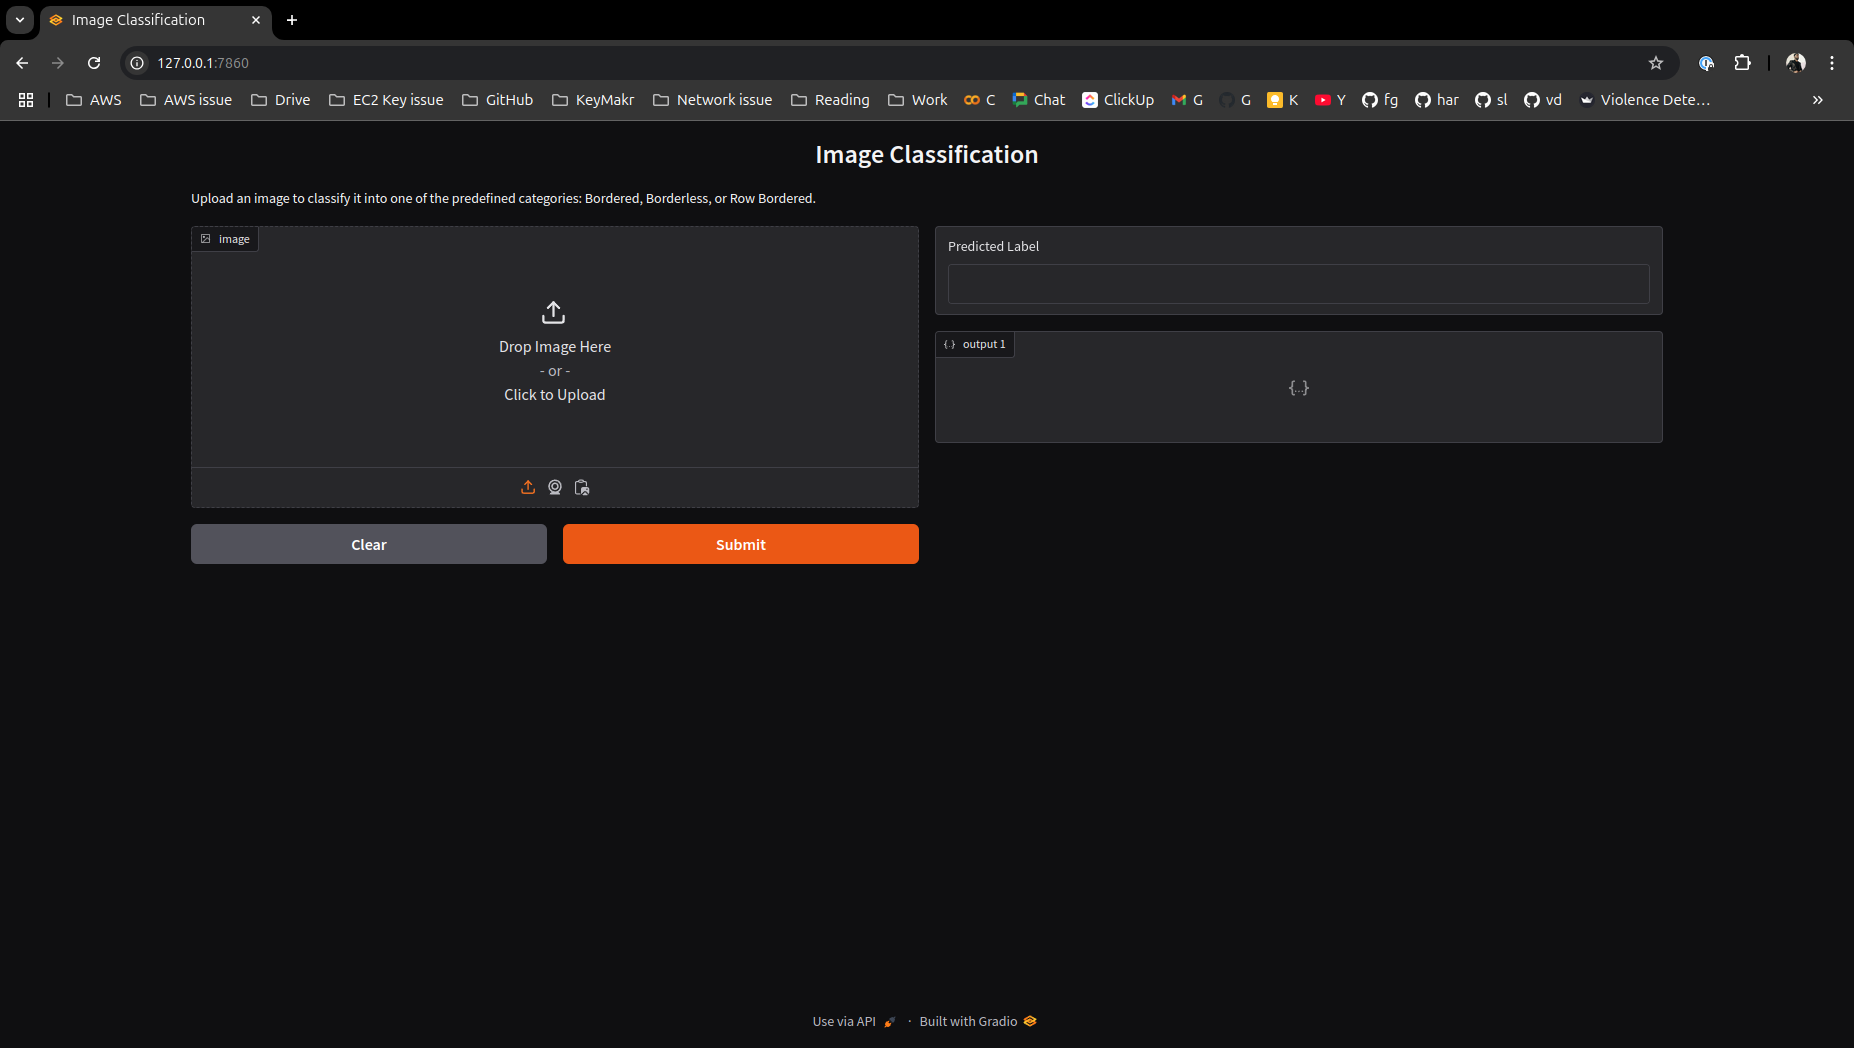
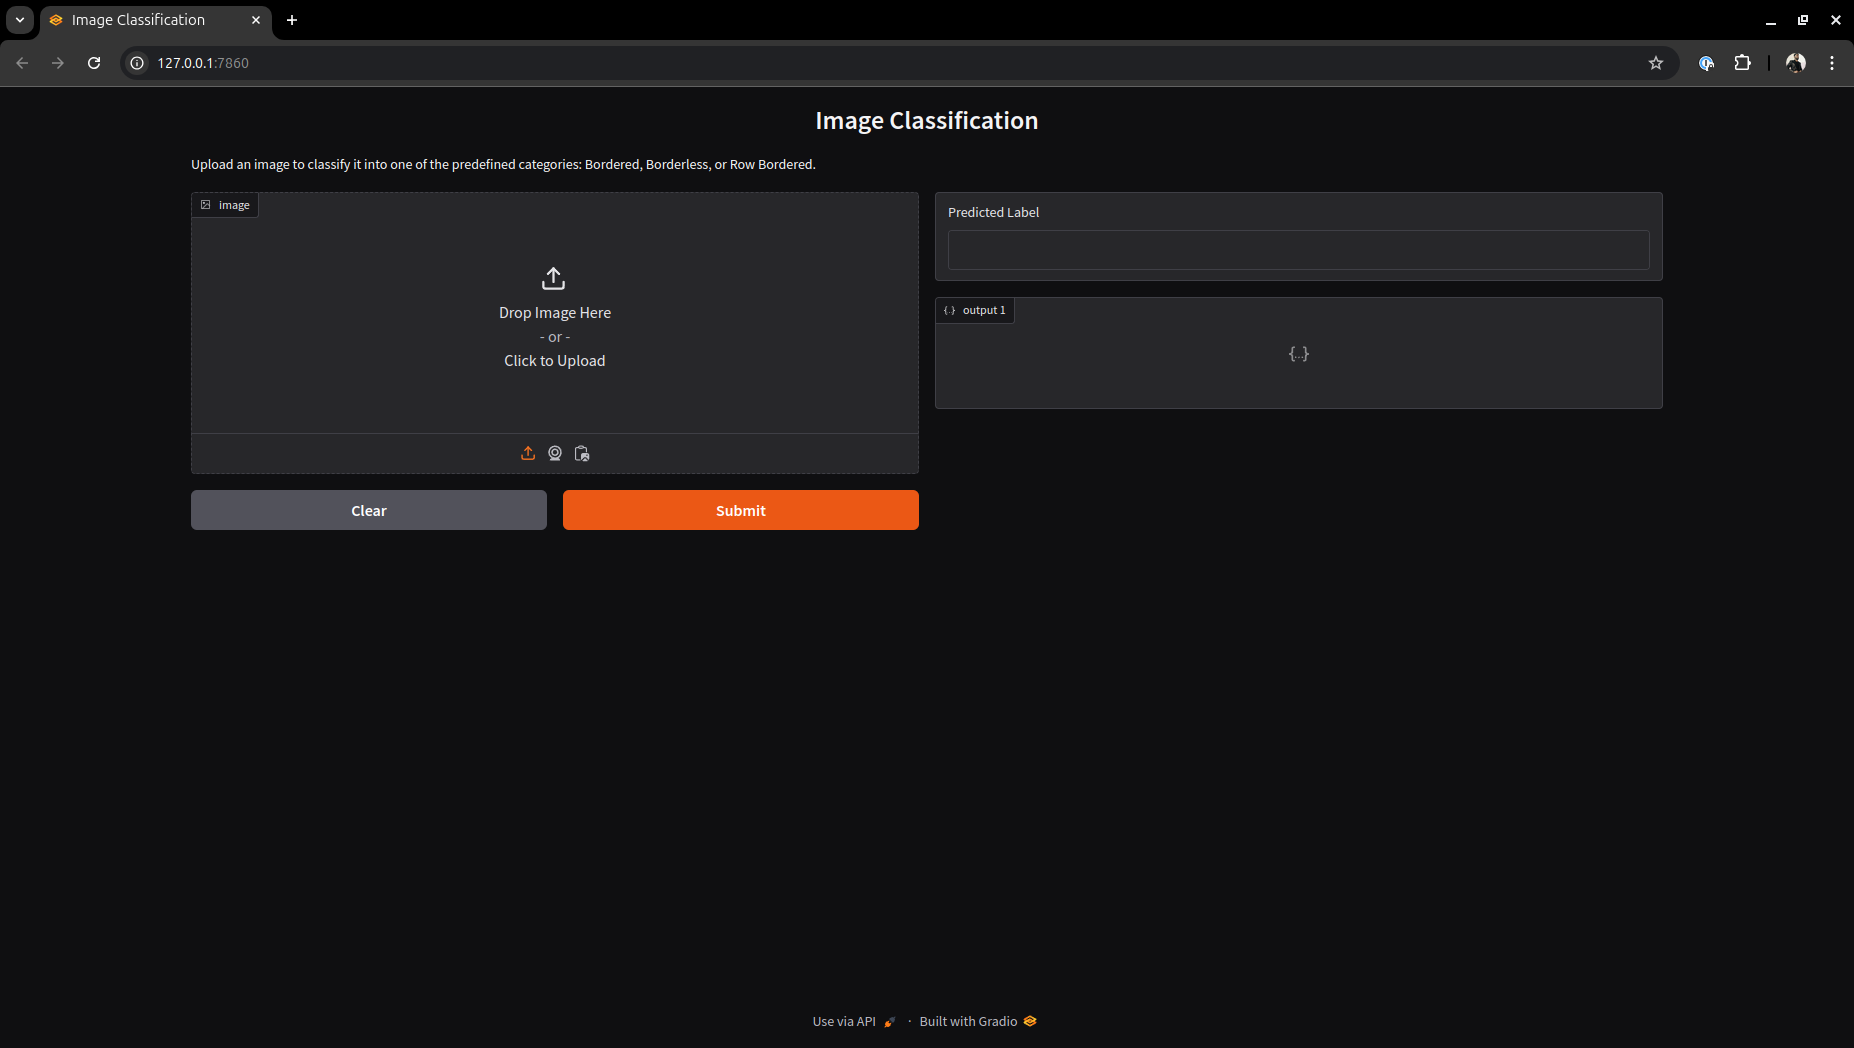
added live hosted url link

diff --git a/README.md b/README.md
@@ -2,6 +2,8 @@
 
 This project is a deep learning image classification task using TensorFlow and Keras. It includes training a CNN on a custom image dataset.
 
+# Live hosted [LINK](https://huggingface.co/spaces/ashuguptahere/parspec-assignment-gradio)
+
 ## 📥 Installation:
 
 ### 1. Clone the project and change the directory:
@@ -41,6 +43,7 @@ gradio app.py
 ## Results:
 ![](assets/img1.png)
 ![](assets/img2.png)
+![](assets/img3.png)
 
 ## 🤝 Contributing:
 
